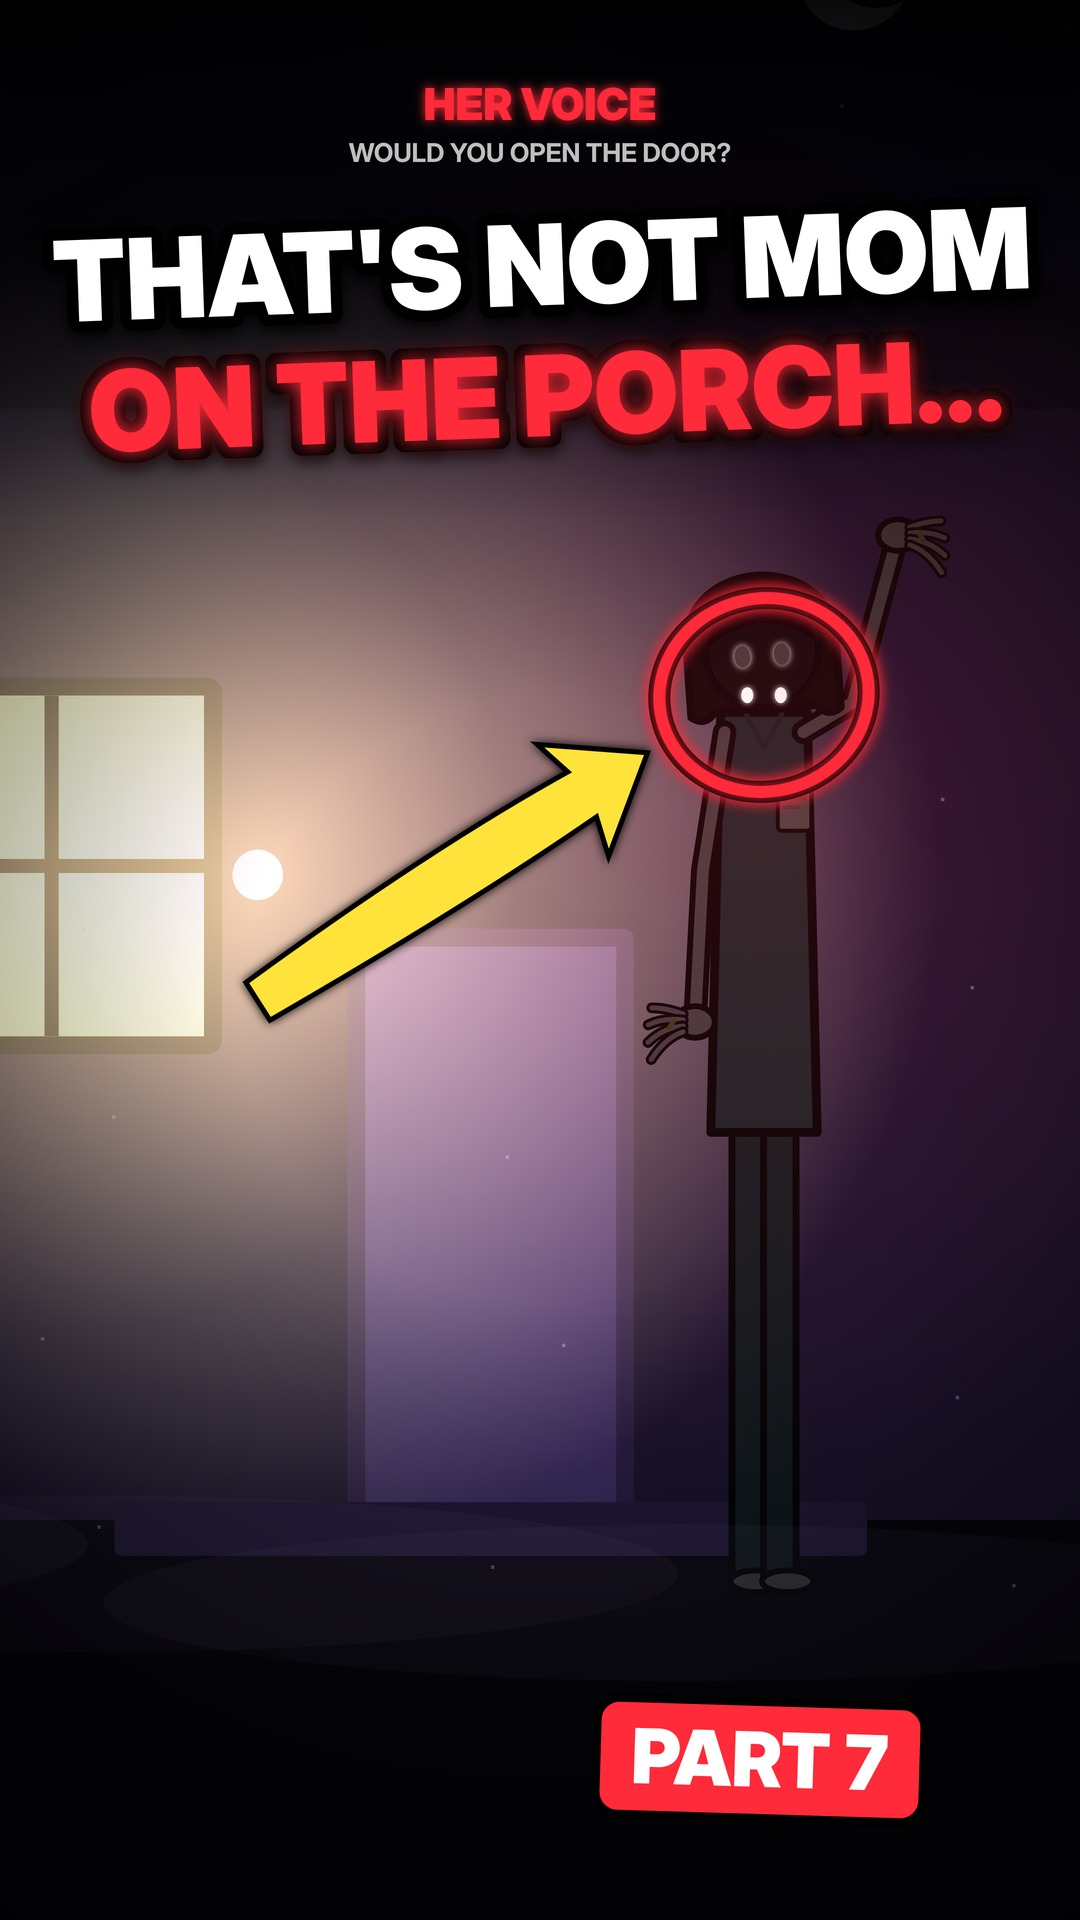
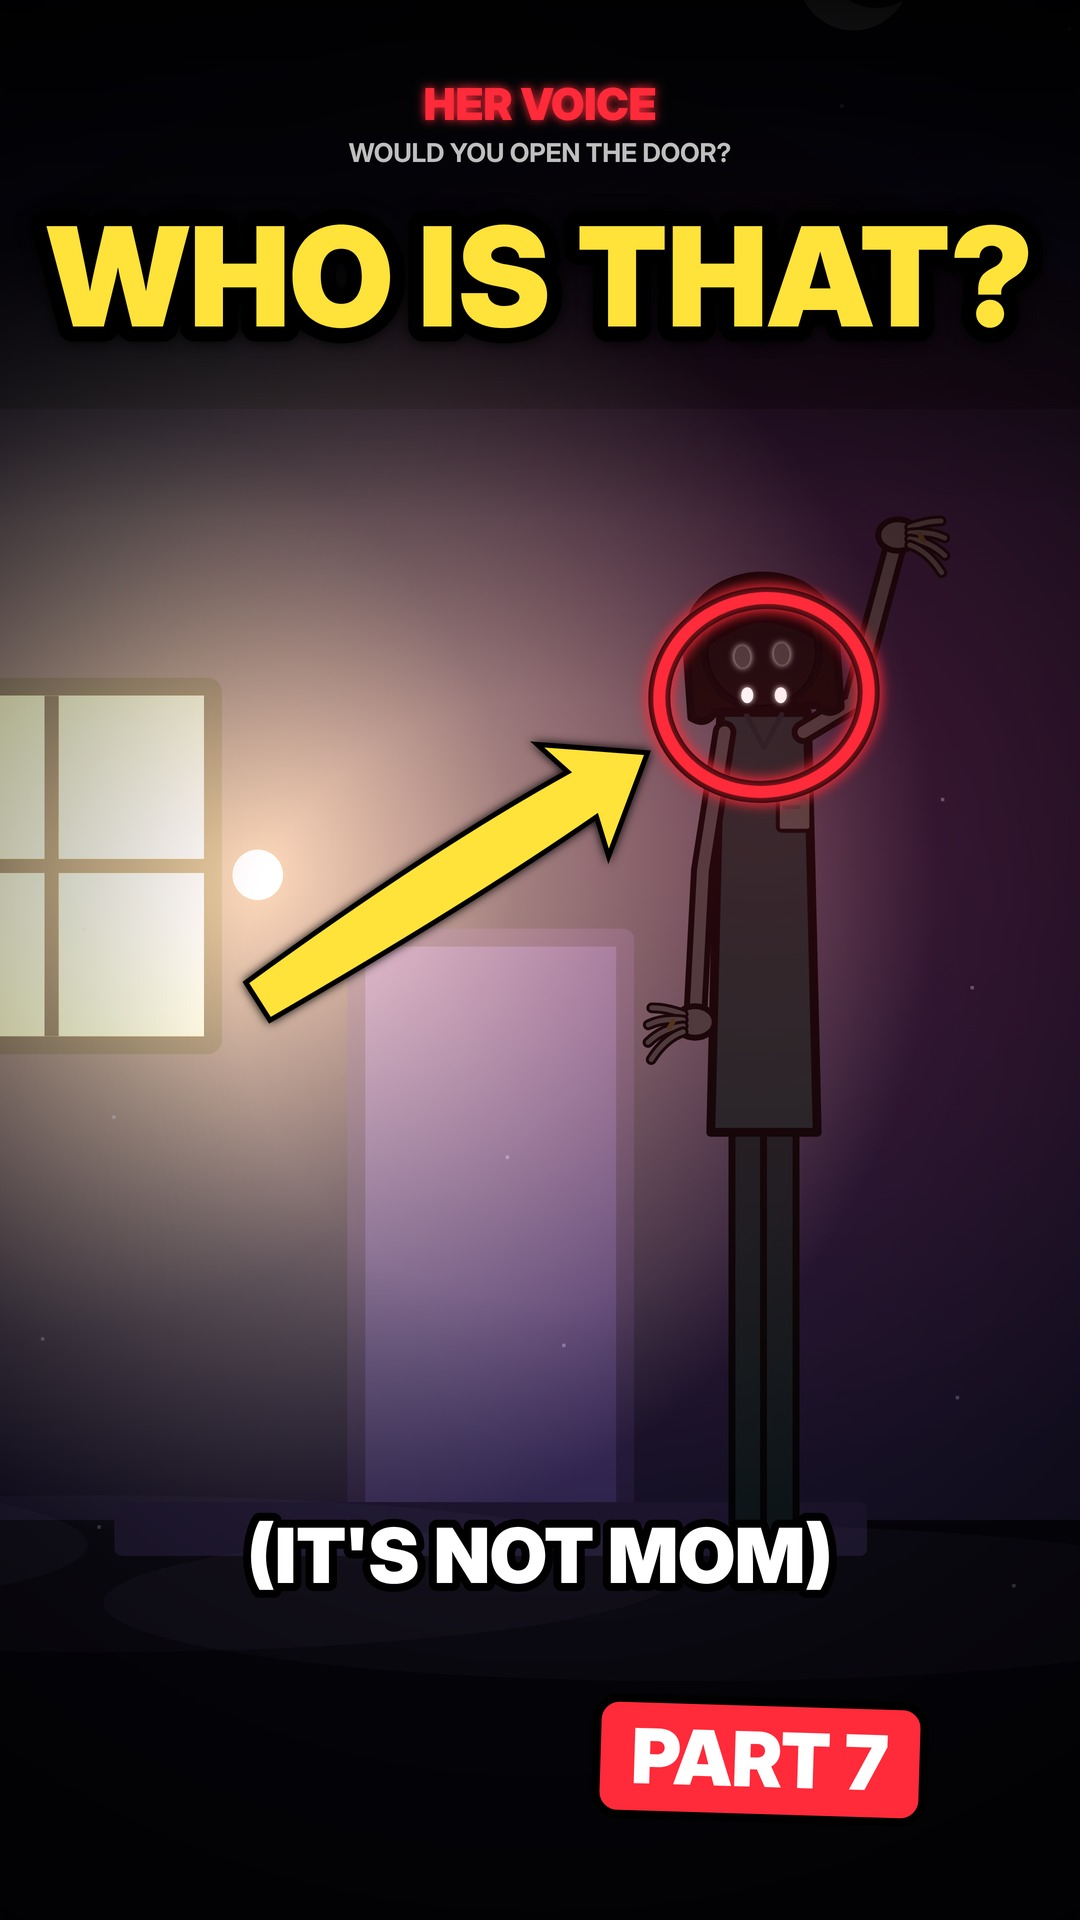
HER VOICE Part 7: meme thumbnail (WHO IS THAT?)
Claude-Session: https://claude.ai/code/session_013waGN2ARspf4yShZssZUe5

Changed region(s): [[0.0306, 0.0938, 0.9778, 0.25], [0.2139, 0.7812, 0.7944, 0.8438]]

diff --git a/youtube/horror/it-knows-her-voice/web/thumbs.html b/youtube/horror/it-knows-her-voice/web/thumbs.html
@@ -317,6 +317,9 @@ const porchClose = (o = {}) => { const s = 1.6, x = 540, y = 1500; g.save(); g.t
   rr(-200, -10, 420, 30, 4, '#241a3a'); g.restore(); };
 const tallThing = (x, y, s, o = {}) => { g.save(); if (o.dark) g.filter = `brightness(${o.dark})`; mom(x - 300 * s, y - 975 * s, s, { tall: 2.05, reach: 0, face: o.face || 'dark', ...o }); g.restore();
   if (o.eyes !== false) { const ex = x, ey = y - 975 * s + (o.eyeY ?? 95) * s; add(() => { g.shadowColor = '#fff'; g.shadowBlur = 12; g.fillStyle = 'rgba(240,236,255,0.95)'; for (const sx of [-1, 1]) { g.beginPath(); g.ellipse(ex + sx * 17 * s, ey, 6 * s, 8 * s, 0, 0, 7); g.fill(); } g.shadowBlur = 0; }); } };
+const memeTop = (txt, y) => { g.save(); g.font = '900 150px "Inter Display", "DejaVu Sans", sans-serif'; g.textAlign = 'center'; g.textBaseline = 'middle'; let sz = 150; while (g.measureText(txt).width > 1000) { sz -= 6; g.font = `900 ${sz}px "Inter Display", sans-serif`; }
+  g.lineJoin = 'round'; g.lineWidth = sz * 0.22; g.strokeStyle = '#000'; g.shadowColor = 'rgba(0,0,0,0.9)'; g.shadowBlur = 30; g.strokeText(txt, 540, y); g.shadowBlur = 0; g.fillStyle = '#ffe23a'; g.fillText(txt, 540, y); g.restore(); };
+const memeBottom = (txt, y) => { g.save(); g.font = '900 76px "Inter Display", "DejaVu Sans", sans-serif'; g.textAlign = 'center'; g.textBaseline = 'middle'; g.lineJoin = 'round'; g.lineWidth = 16; g.strokeStyle = '#000'; g.strokeText(txt, 540, y); g.fillStyle = '#ffffff'; g.fillText(txt, 540, y); g.restore(); };
 const THUMBS = {
   1() { T = 1.3; g.save(); cam(1.0, 540, 960); wallIn(); floorIn(1520); door(300, 430, 520, 1090, { glow: 1, feet: 1, glowCol: '200,210,255' });
     add(() => { const rg = g.createRadialGradient(560, 760, 5, 560, 760, 120); rg.addColorStop(0, 'rgba(255,40,60,0.9)'); rg.addColorStop(1, 'rgba(255,40,60,0)'); g.fillStyle = rg; g.fillRect(400, 600, 320, 320); });
@@ -386,7 +389,7 @@ const THUMBS = {
     g.save(); g.font = 'italic 800 52px "Inter Display", sans-serif'; g.textAlign = 'center'; g.fillStyle = '#fff'; g.fillText('You finally see what she really is...', 540, 1100); g.font = '900 60px "Inter Display", sans-serif'; g.fillStyle = '#c6ff3a'; g.fillText('YOUR VOTE WON: THE BRIDGE 🌉', 540, 1185); g.restore(); logo(); },
   7() { T = 1.2; g.save(); cam(1.12, 600, 1000); g.fillStyle = '#07050d'; g.fillRect(-400, -400, 1900, 2800); sky(); porchClose({ porch: 1 });
     tallThing(800, 1560, 0.88, { face: 'dark', dark: 0.25, wave: 1, t: 0.3, eyeY: 70 }); fog(1500); g.restore(); grade(760, 800, '255,30,50', 0.14);
-    hook([["THAT'S NOT MOM", '#ffffff', 112], ['ON THE PORCH...', '#ff2a3a', 112]], 210); ring(764, 695, 105); arrow(260, 1000, 644, 755); logo(); badge(7, 760, 1760); },
+    memeTop('WHO IS THAT?', 285); memeBottom('(IT\'S NOT MOM)', 1560); ring(764, 695, 105); arrow(260, 1000, 644, 755); logo(); badge(7, 760, 1760); },
 };
 window.renderThumb = (n, k = 2) => { cv.width = W * k; cv.height = H * k; g.setTransform(k, 0, 0, k, 0, 0); g.clearRect(0, 0, W, H); THUMBS[n](); return true; };
 document.fonts.load('900 92px "Inter Display"').then(() => { window.ready = true; });
